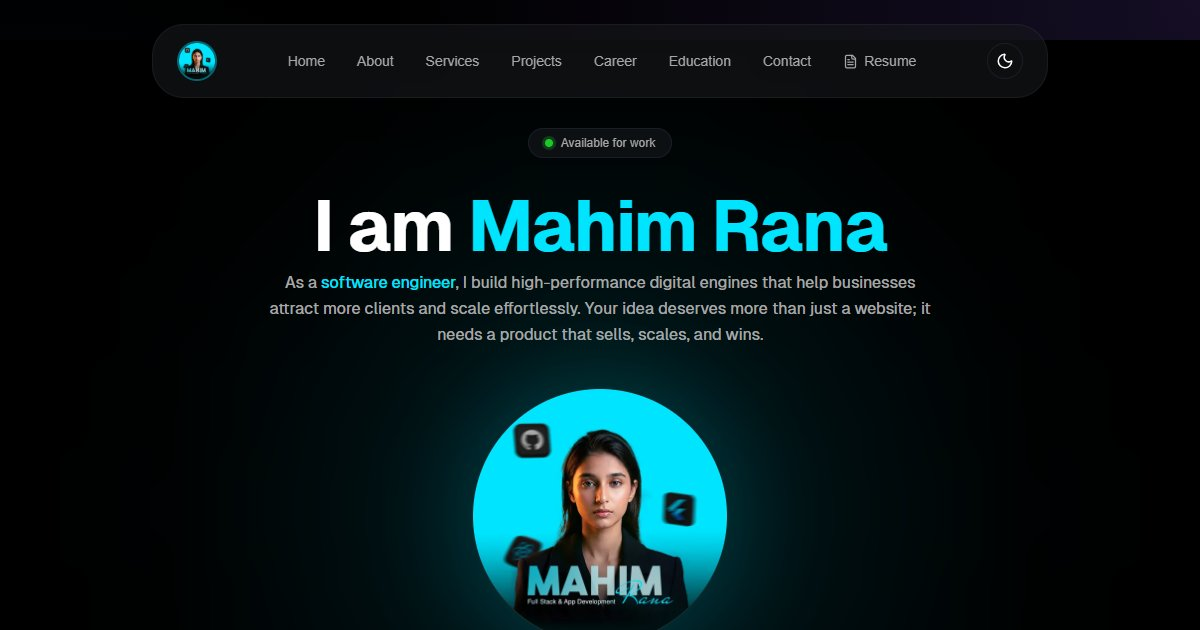
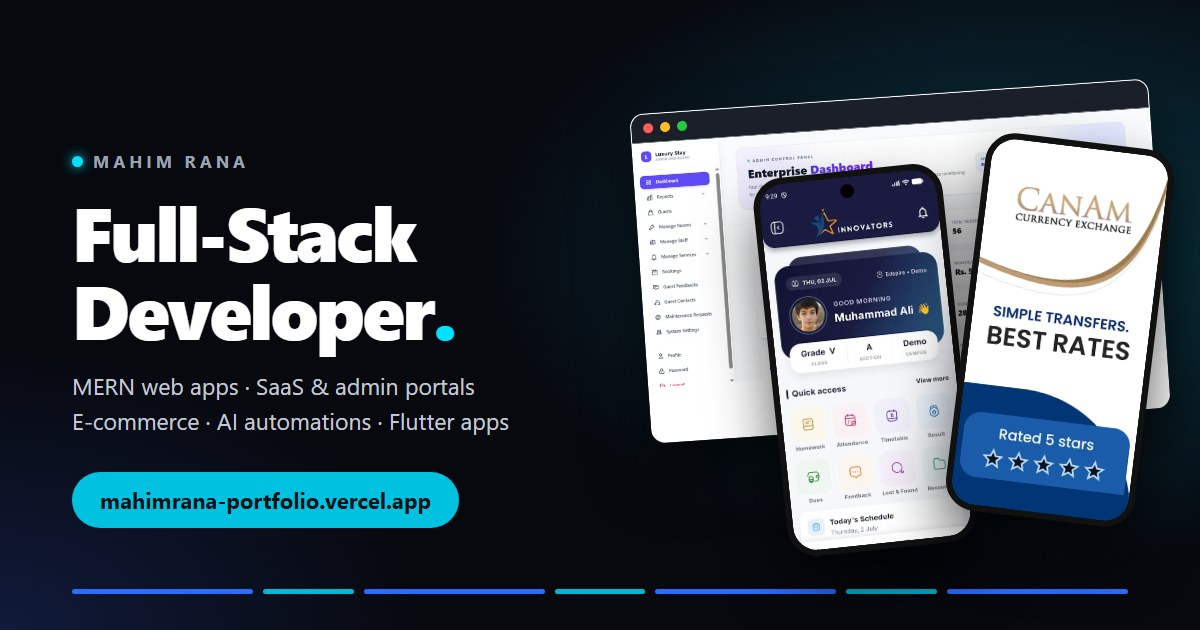
Add designed link preview card for WhatsApp/social shares

diff --git a/index.html b/index.html
@@ -26,12 +26,15 @@
       property="og:description"
       content="MERN stack web apps, SaaS & admin portals, e-commerce systems, AI automations and Flutter mobile apps."
     />
-    <meta property="og:image" content="https://mahimrana-portfolio.vercel.app/og-image.jpg" />
+    <meta property="og:image" content="https://mahimrana-portfolio.vercel.app/og-image.jpg?v=2" />
     <meta property="og:image:width" content="1200" />
     <meta property="og:image:height" content="630" />
+    <meta property="og:image:type" content="image/jpeg" />
+    <meta property="og:image:alt" content="Mahim Rana - Full-Stack Developer portfolio" />
     <meta name="twitter:card" content="summary_large_image" />
     <meta name="twitter:title" content="Mahim Rana | Full-Stack Software Engineer & Mobile App Developer" />
-    <meta name="twitter:image" content="https://mahimrana-portfolio.vercel.app/og-image.jpg" />
+    <meta name="twitter:description" content="MERN stack web apps, SaaS &amp; admin portals, e-commerce systems, AI automations and Flutter mobile apps." />
+    <meta name="twitter:image" content="https://mahimrana-portfolio.vercel.app/og-image.jpg?v=2" />
   </head>
   <body>
     <div id="root"></div>
